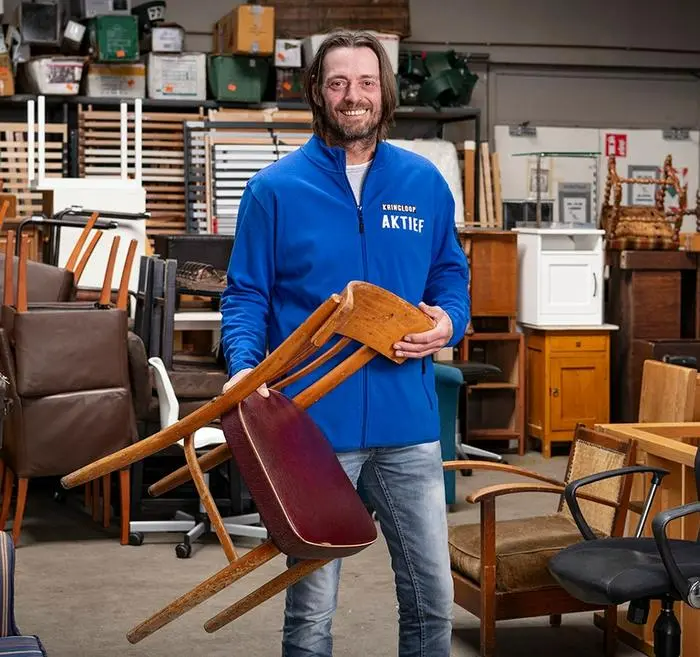
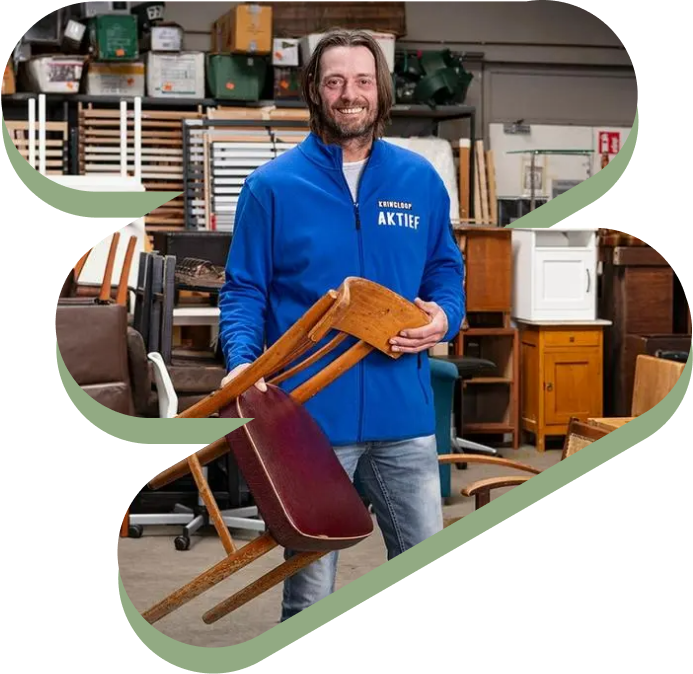
replaced placeholder image

diff --git a/resources/css/home.css b/resources/css/home.css
@@ -16,6 +16,10 @@ header {
     margin: 10vw;
 }
 
+header img {
+    width: 35vw;
+}
+
 header div {
     margin: 2vw;
 }

diff --git a/resources/views/home.blade.php b/resources/views/home.blade.php
@@ -5,7 +5,7 @@
             <h1>Werk voor wie wil werken</h1>
             <p>Met Open Hiring heeft iedereen een eerlijke kans op een baan. Wie wil én kan werken, kan zó aan de slag. Zonder sollicitatiegesprek, zonder brief, zonder vragen. Met één druk op de knop. Open Hiring draait namelijk niet om diploma’s, maar om mensen. Niet om praatjes, maar om aanpakken.</p>
         </div>
-        <img src="https://placehold.co/500x500" alt="decorative image">
+        <img src="images/homeheaderimage.png" alt="decorative image">
     </header>
 
     <section id="stories">
